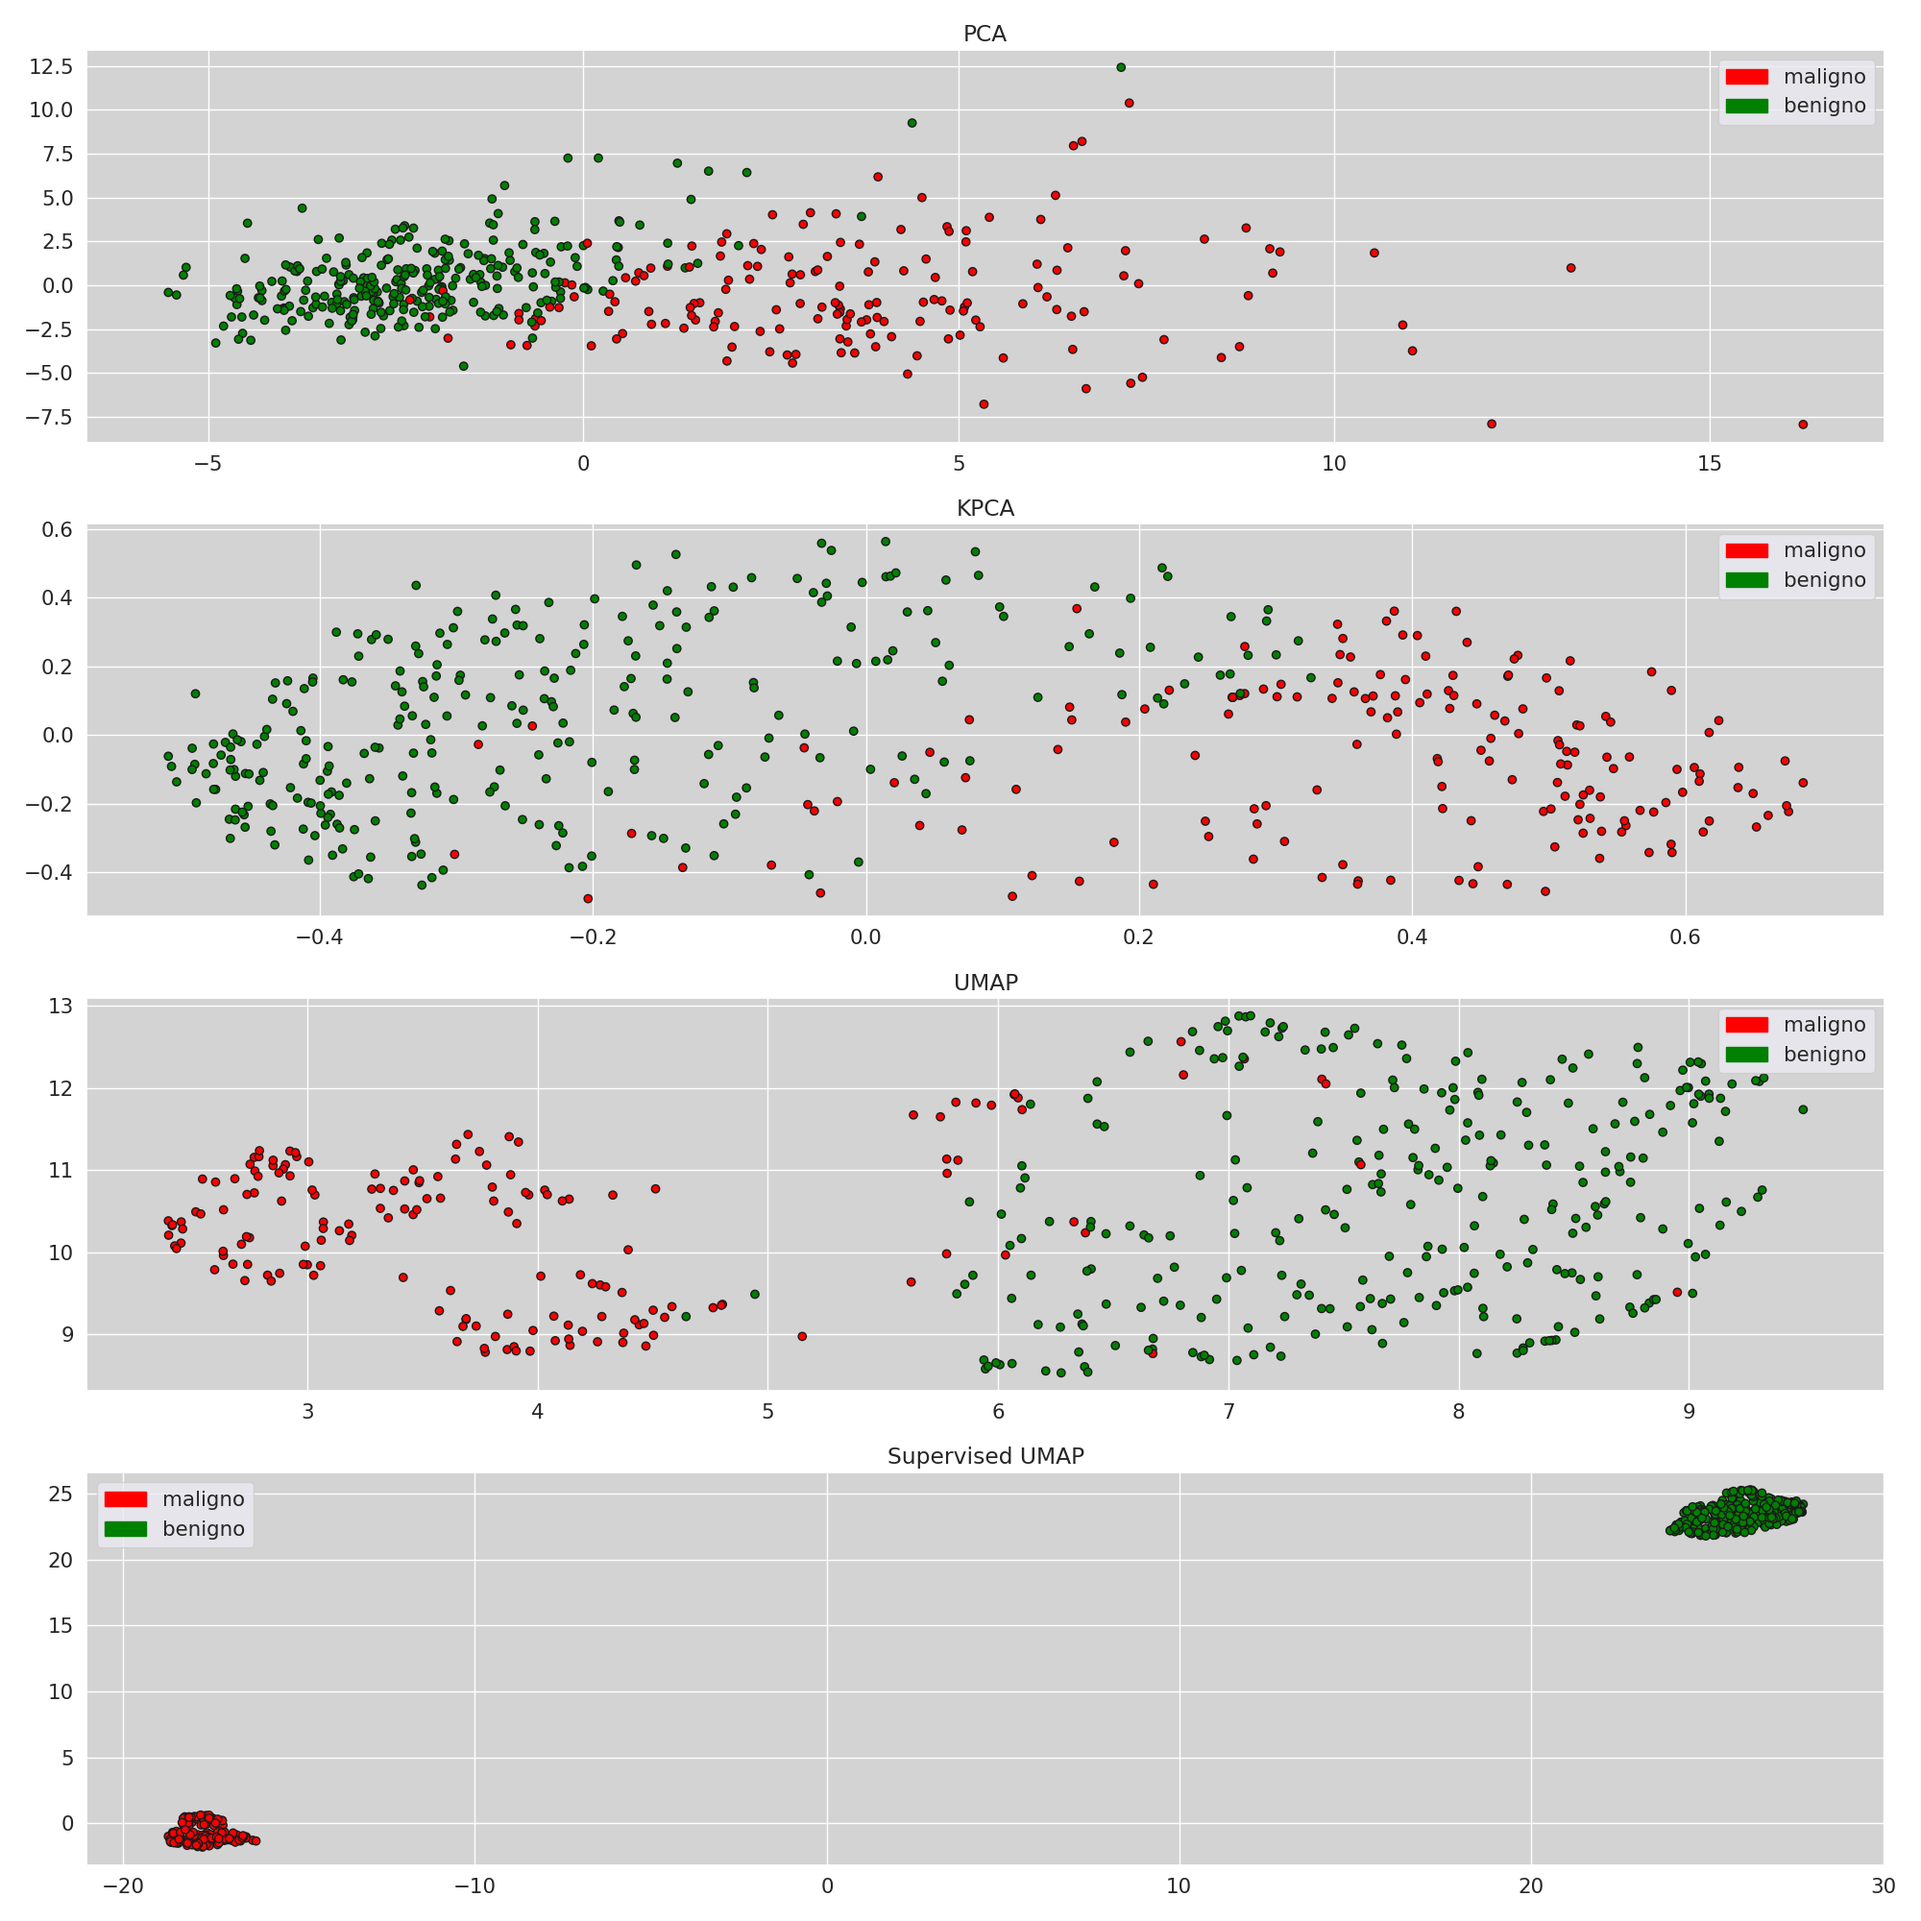
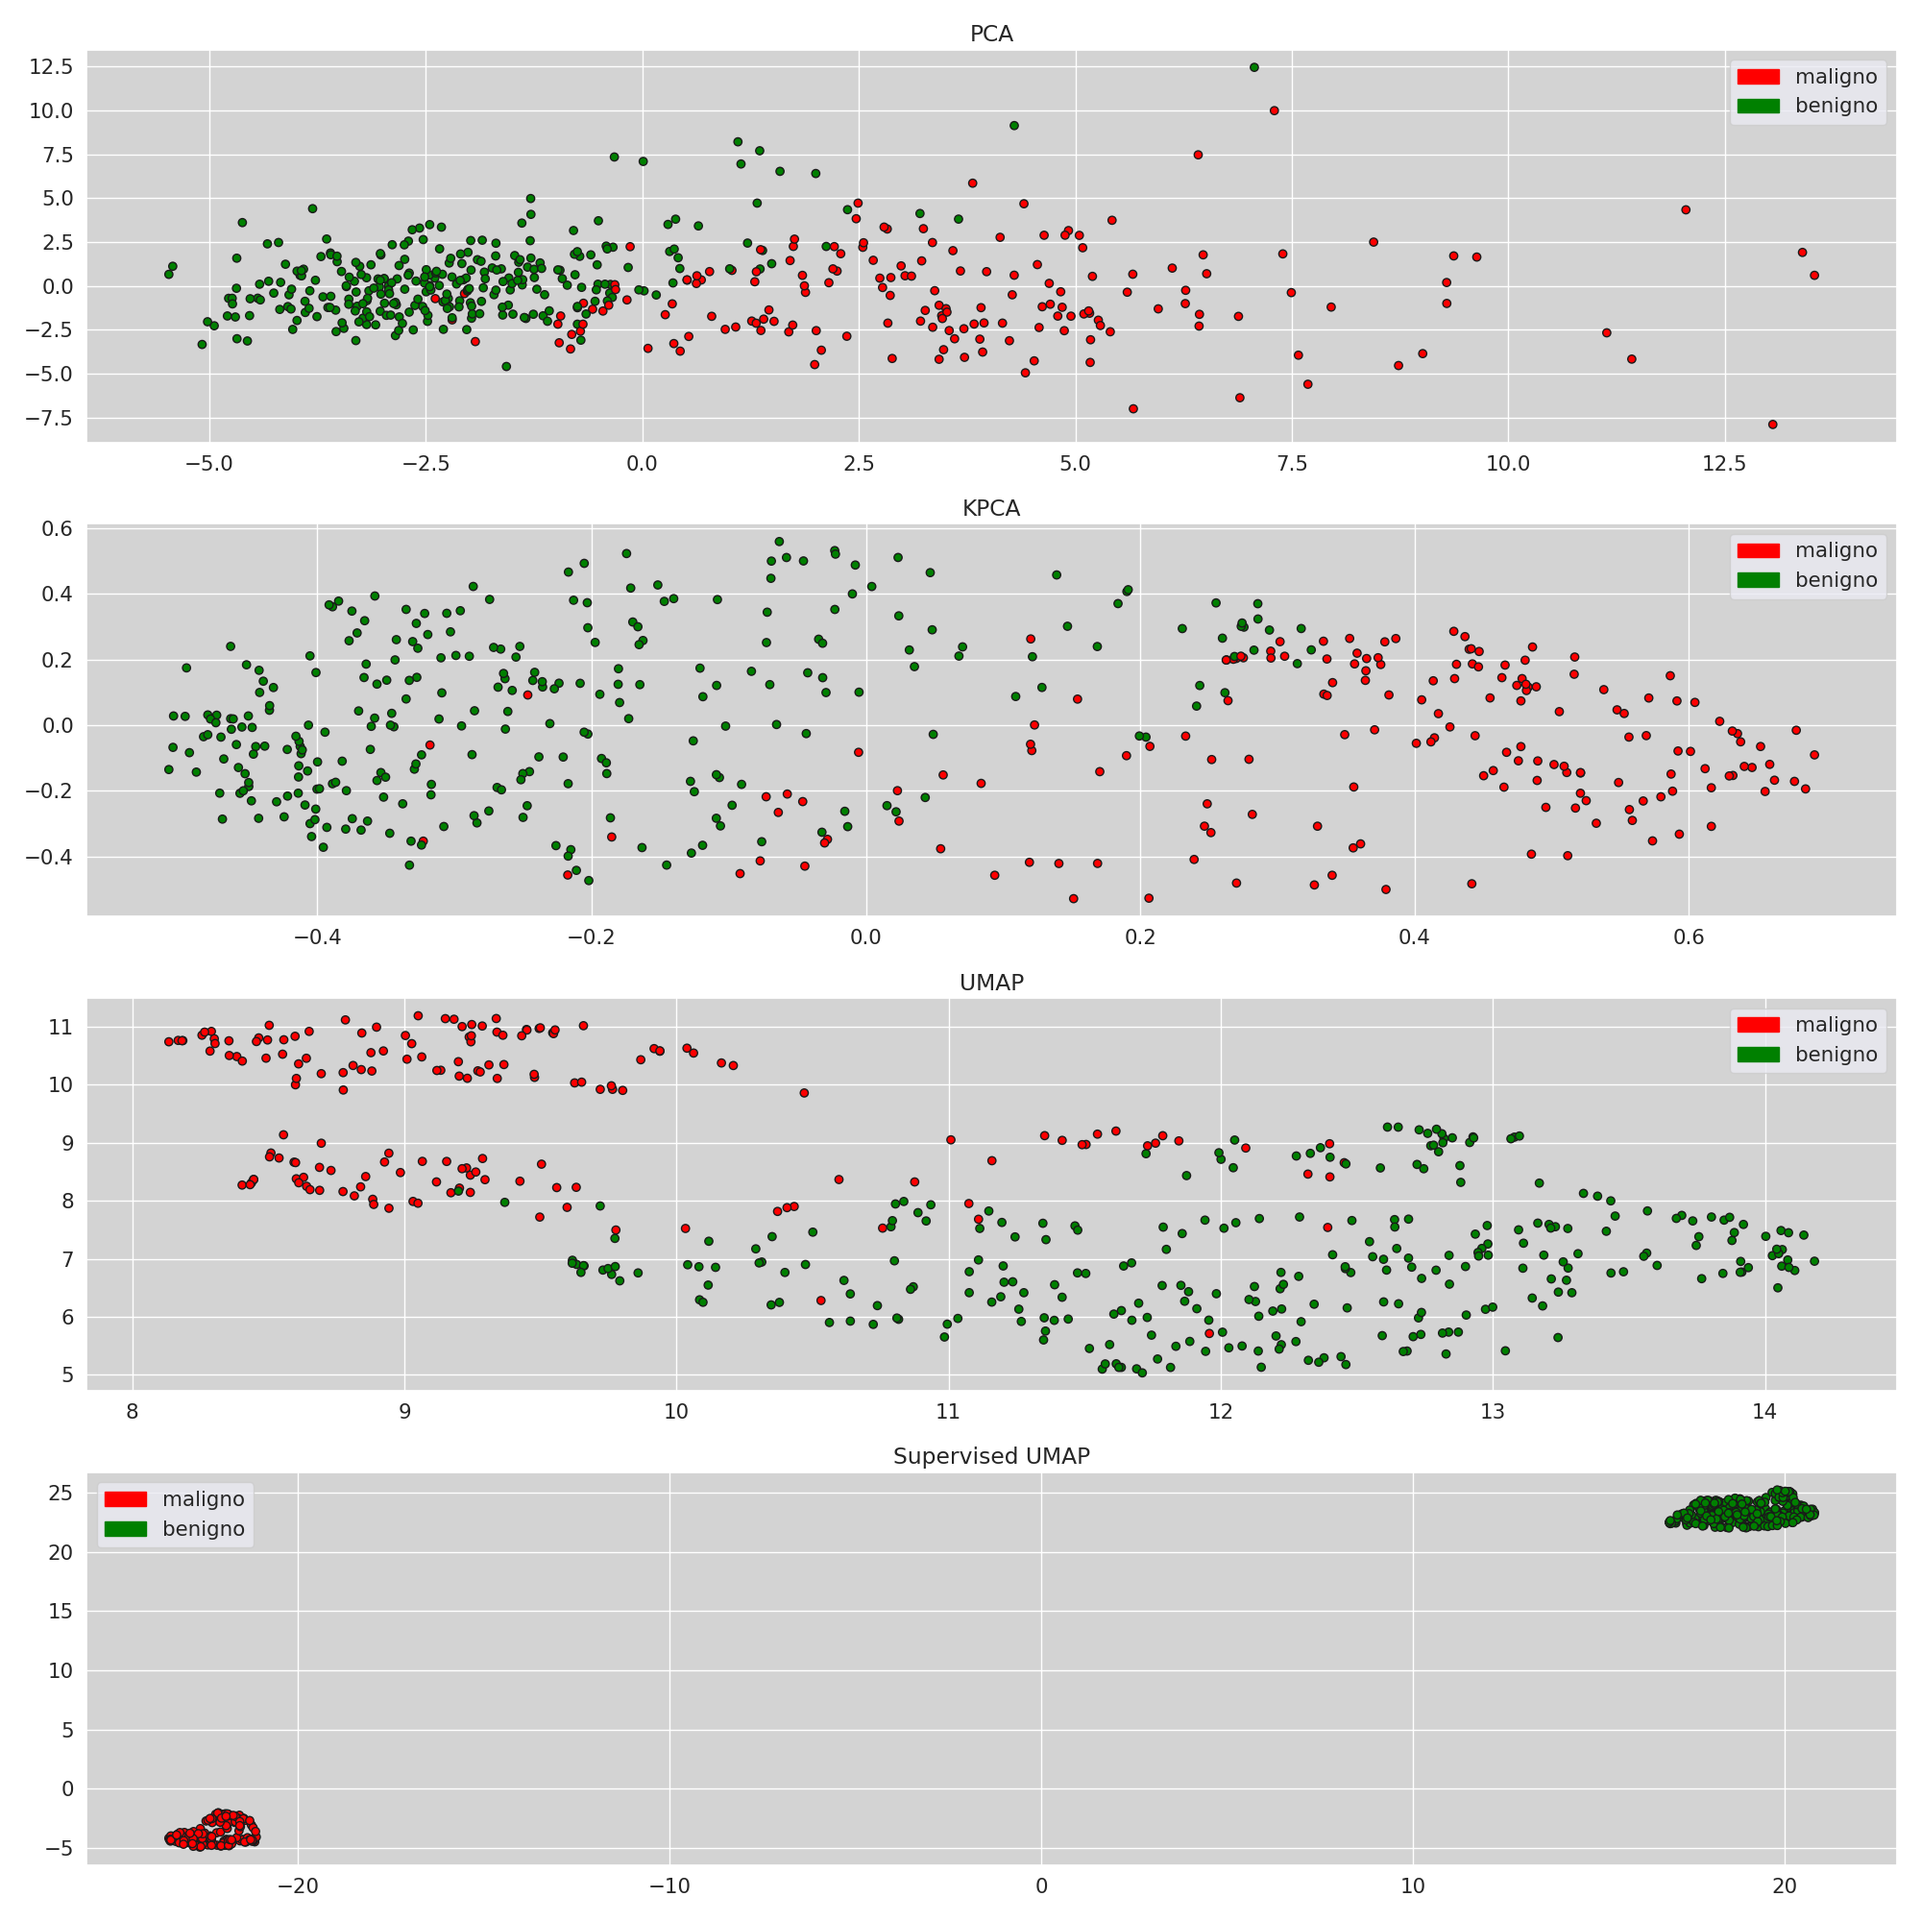
Fixed errors in presentation and updated graphs

diff --git a/Final/analyze.py b/Final/analyze.py
@@ -186,6 +186,9 @@ def evaluate_and_plot_model(
     confusion_plot_config=PlotConfig(),
     decision_boundary_plot_config: Optional[PlotConfig] = None,
 ):
+    """
+    Fit a Decision Tree classifier to the data and evaluate its performance with the given embeddings
+    """
     clf1 = DecisionTreeClassifier(max_depth=3, min_samples_leaf=12, random_state=43)
     clf1.fit(X_train, y_train)
 
@@ -202,7 +205,9 @@ def evaluate_and_plot_model(
 
     # Plot confusion matrix
     plt.figure(figsize=confusion_plot_config.fig_size)
-    sns.heatmap(cnf_matrix, annot=True, fmt="d")
+    heatmap = sns.heatmap(cnf_matrix, annot=True, fmt="d")
+    heatmap.set_xticklabels(["maligno", "benigno"])
+    heatmap.set_yticklabels(["maligno", "benigno"])
     plt.xlabel("Predicción")
     plt.ylabel("Real")
     confusion_plot_config.print_plot()
@@ -245,7 +250,11 @@ def evaluate_umap(
     y_test: np.ndarray,
     config=PlotConfig(),
 ):
+    """
+    Evaluate UMAP embeddings for different values of n_neighbors and min_dist and plot the results
 
+    Print classification report for each UMAP embedding and plot confusion matrix and key metrics for comparison
+    """
     num_neighbors = len(n_neighbors_values)
     num_dists = len(min_dist_values)
     summary_data = []
@@ -348,63 +357,19 @@ def evaluate_umap(
     plt.close()
 
 
-def evaluate_umap2(
-    umap_results: Dict[str, Any],
-    n_neighbors_values,
-    min_dist_values,
-    y_train,
-    y_test,
-    config=PlotConfig(),
-):
-    num_neighbors = len(n_neighbors_values)
-    num_dists = len(min_dist_values)
-
-    fig, axes = plt.subplots(num_neighbors, num_dists, figsize=config.fig_size)
-    for i, result in enumerate(umap_results):
-        n_neighbors = result["n_neighbors"]
-        min_dist = result["min_dist"]
-        dataset = result["dataset"]
-        X_train = dataset.train
-        X_test = dataset.test
-
-        clf1 = DecisionTreeClassifier(max_depth=3, min_samples_leaf=12, random_state=43)
-        clf1.fit(X_train, y_train)
-
-        (y, x) = np.unravel_index(i, (num_neighbors, num_dists))
-        ax = axes[x, y]
-
-        print(
-            "--------------------------------------------------------------------------"
-        )
-        print(
-            f"Testing UMAP with n_neighbors = {n_neighbors} and min_dist = {min_dist}"
-        )
-        print(f"Accuracy on training set: {clf1.score(X_train, y_train):.2f}")
-        print(f"Accuracy on test set: {clf1.score(X_test, y_test):.2f}")
-
-        y_pred = clf1.predict(X_test)
-
-        cnf_matrix = confusion_matrix(y_test, y_pred)
-
-        # Plot confusion matrix
-        sns.heatmap(cnf_matrix, annot=True, fmt="d", ax=ax)
-        ax.set_xlabel("Predicción")
-        ax.set_ylabel("Real")
-
-        print(classification_report(y_test, y_pred))
-
-    config.print_plot()
-
-
 def plot_umap_comparison(
     n_neighbors_values, min_dist_values, umap_embeddings, labels, config=PlotConfig()
 ):
+    """
+    Plot UMAP embeddings for different values of n_neighbors and min_dist
+    """
     colors = ["red" if label == 0 else "green" for label in labels]
     num_neighbors = len(n_neighbors_values)
     num_dists = len(min_dist_values)
 
     fig, axes = plt.subplots(num_neighbors, num_dists, figsize=config.fig_size)
 
+    sns.set_theme(font_scale=1.4)
     for i, (n_neighbors, min_dist) in enumerate(
         itertools.product(n_neighbors_values, min_dist_values)
     ):
@@ -416,3 +381,4 @@ def plot_umap_comparison(
         ax.set(xticklabels=[], yticklabels=[], xticks=[], yticks=[])
 
     config.print_plot()
+    sns.set_theme(font_scale=1)

diff --git a/Final/main.py b/Final/main.py
@@ -91,11 +91,14 @@ def plot_pre_analysis(dat_df: pd.DataFrame):
         ),
     )
 
-def compute_reductions(
+def compute_embeddings(
         X_train: np.ndarray,
         X_test: np.ndarray,
         algorithms: List[str],
 ) -> Dict[str, Dataset]: 
+    """
+    Generate embeddings for the selected algorithms
+    """
     seed = config.get("Seed")
     reductions: Dict[str, Dataset] = {}
 
@@ -167,6 +170,9 @@ def test_umap(
         n_neighbors_values=[15],
         min_dist_values=[0.1],
         ) -> List[Dict[str, Any]]:
+    """
+    Generate umap embeddings for different values of n_neighbors and min_dist
+    """
     n_components = 2
     umap_conf = config.get("UMAP", {})
     results = []
@@ -205,7 +211,7 @@ if __name__ == "__main__":
     X = data_df[data_df.columns[:-1]]
     y = data_df.target
 
-    plot_pre_analysis(data_df)
+    # plot_pre_analysis(data_df)
 
     # Split data
     X_train, X_test, y_train, y_test = train_test_split(
@@ -274,7 +280,7 @@ if __name__ == "__main__":
 
     algorithms = ["PCA", "KPCA", "UMAP", "Supervised UMAP"]
 
-    reductions = compute_reductions(X_train_scaled, X_test_scaled, algorithms)    
+    reductions = compute_embeddings(X_train_scaled, X_test_scaled, algorithms)    
 
     X_train_list = list(map(lambda x: x.train, reductions.values()))
     X_test_list = list(map(lambda x: x.test, reductions.values()))

diff --git a/Final/index.md b/Final/index.md
@@ -426,7 +426,7 @@ El dataset contiene 10 variables calculadas para los núcleos celulares dentro d
 7. **Concavidad** (severidad de las porciones cóncavas del contorno)
 8. **Puntos cóncavos** (cantidad de porciones cóncavas del contorno)
 9. **Simetría**
-10. **Dimensión fractal** ("aproximación de línea costera" - 1)
+10. **Dimensión fractal** ("aproximación de línea costera" - 1). Irregularidad o complejidad del borde de las células.
 
 ---
 
@@ -494,19 +494,19 @@ Reducción de dimensionalidad
 
 ---
 
-**Rendimiento del modelo para diferentes valores de n_neighbots y min_dist**
+**Rendimiento del modelo para diferentes valores de n_neighbors y min_dist**
 
 ![](./plots/umap_summary_test_accuracy.svg)
 
 ---
 
-**Rendimiento del modelo para diferentes valores de n_neighbots y min_dist**
+**Rendimiento del modelo para diferentes valores de n_neighbors y min_dist**
 
 ![](./plots/umap_summary_f1.svg)
 
 ---
 
-**Matriz de confusión para diferentes valores de n_neighbots y min_dist**
+**Matriz de confusión para diferentes valores de n_neighbors y min_dist**
 
 ![](./plots/umap_evaluation.svg)
 
